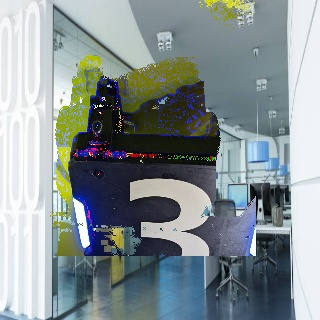
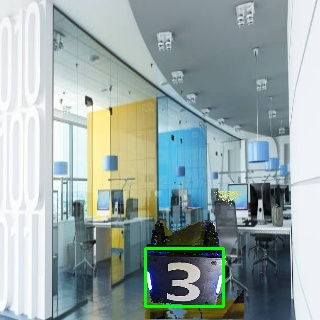
now scales and does transforms

diff --git a/generate.py b/generate.py
@@ -18,11 +18,11 @@ train = 0.95
 scale_min = 0.25
 scale_max = 1.00
 
-random.seed(12345)
+random.seed(1345)
 
 #is_train = random.choices([0, 1], weights=[(1 - train), train], k=12802)
 
-def apply_transforms(mask, x0, x1, y0, y1):
+def apply_transforms(img, mask, x0, x1, y0, y1):
 
     # random scale 
 
@@ -30,18 +30,43 @@ def apply_transforms(mask, x0, x1, y0, y1):
     x0 = x0 * scale_factor
     x1 = x1 * scale_factor
     y0 = y0 * scale_factor
-    y1 = x1 * scale_factor
+    y1 = y1 * scale_factor
+
+    x0 = int(x0)
+    x1 = int(x1)
+    y0 = int(y0)
+    y1 = int(y1)
 
     dsz = int(320 * scale_factor)
 
     mask = cv2.resize(mask, (dsz, dsz), scale_factor, scale_factor, interpolation=cv2.INTER_CUBIC)
+    img = cv2.resize(img, (dsz, dsz), scale_factor, scale_factor, interpolation=cv2.INTER_CUBIC)
 
     shape = mask.shape[0]
 
-    # always r, b
-    mask = cv2.copyMakeBorder(mask, 0, (320 - shape), 0, (320 - shape), cv2.BORDER_CONSTANT, value=255)
+    border_w = 320 - shape
+    border_h = 320 - shape
 
-    return mask, x0, x1, y0, y1
+    rand_w = random.randint(0, border_w)
+    rand_h = random.randint(0, border_h)
+
+
+
+    border_l = rand_w
+    border_r = 320 - shape - rand_w
+    border_t = rand_h
+    border_b = 320 - shape - rand_h
+
+    x0 += border_l
+    x1 += border_l
+    y0 += border_t
+    y1 += border_t
+
+    # always r, b
+    mask = cv2.copyMakeBorder(mask, border_t, border_b, border_l, border_r, cv2.BORDER_CONSTANT, 255 )
+    img = cv2.copyMakeBorder(img, border_t, border_b, border_l, border_r , cv2.BORDER_CONSTANT, 255)
+
+    return img, mask, x0, x1, y0, y1
 
 for image_loc in os.listdir(BASE_IMAGE_DIR):
 
@@ -58,14 +83,6 @@ for image_loc in os.listdir(BASE_IMAGE_DIR):
         la_in += 1
     
 
-    #x, y, wc, hc
-    #cls = 0
-    #x = ((x0 + x1) / 2) / 320
-    #y = ((y0 + y1) / 2) / 320
-    #w = (abs(x1 - x0)) / 320 
-    #h = (abs(y1 - y0)) / 320
-
-
     x0 = int((x - (w / 2)) * 320)
     x1 = int((x + (w / 2)) * 320)
     y0 = int((y - (h / 2)) * 320)
@@ -73,7 +90,7 @@ for image_loc in os.listdir(BASE_IMAGE_DIR):
     
     img = cv2.imread(os.path.join(BASE_IMAGE_DIR, image_loc))
     
-    #cv2.rectangle(img, (x0, y0), (x1, y1), (0, 255, 0), 2)
+    #
 
     cv2.imwrite('test.jpg',img)
 
@@ -92,7 +109,7 @@ for image_loc in os.listdir(BASE_IMAGE_DIR):
 
         print(mask.shape)
         # apply transforms here
-        mask, x0, x1, y0, y1 = apply_transforms(mask, x0, x1, y0, y1)
+        img, mask, x0, x1, y0, y1 = apply_transforms(img, mask, x0, x1, y0, y1)
 
         print(mask.shape)
 
@@ -100,7 +117,7 @@ for image_loc in os.listdir(BASE_IMAGE_DIR):
 
         f = img - res
         f = np.where(f == 0, bg_image, f).astype(np.uint8)
-
+        cv2.rectangle(f, (x0, y0), (x1, y1), (0, 255, 0), 2)
         cv2.imwrite('output.jpg', f)
         break
         """
